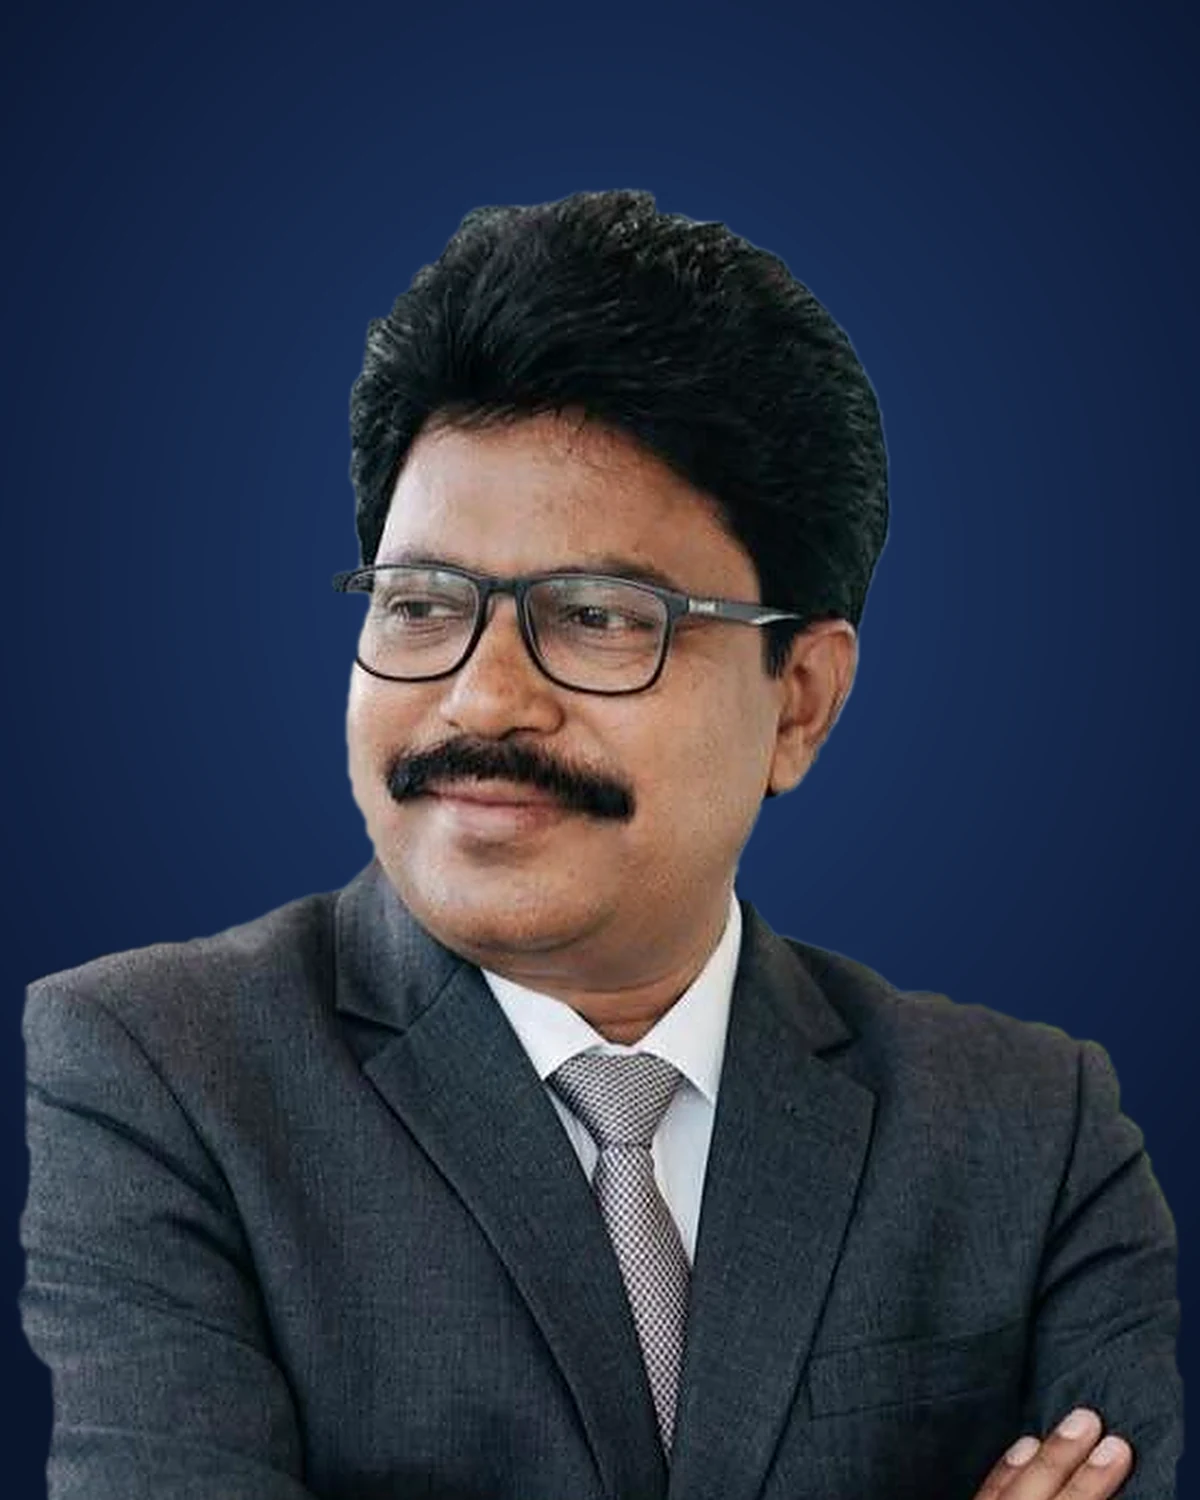
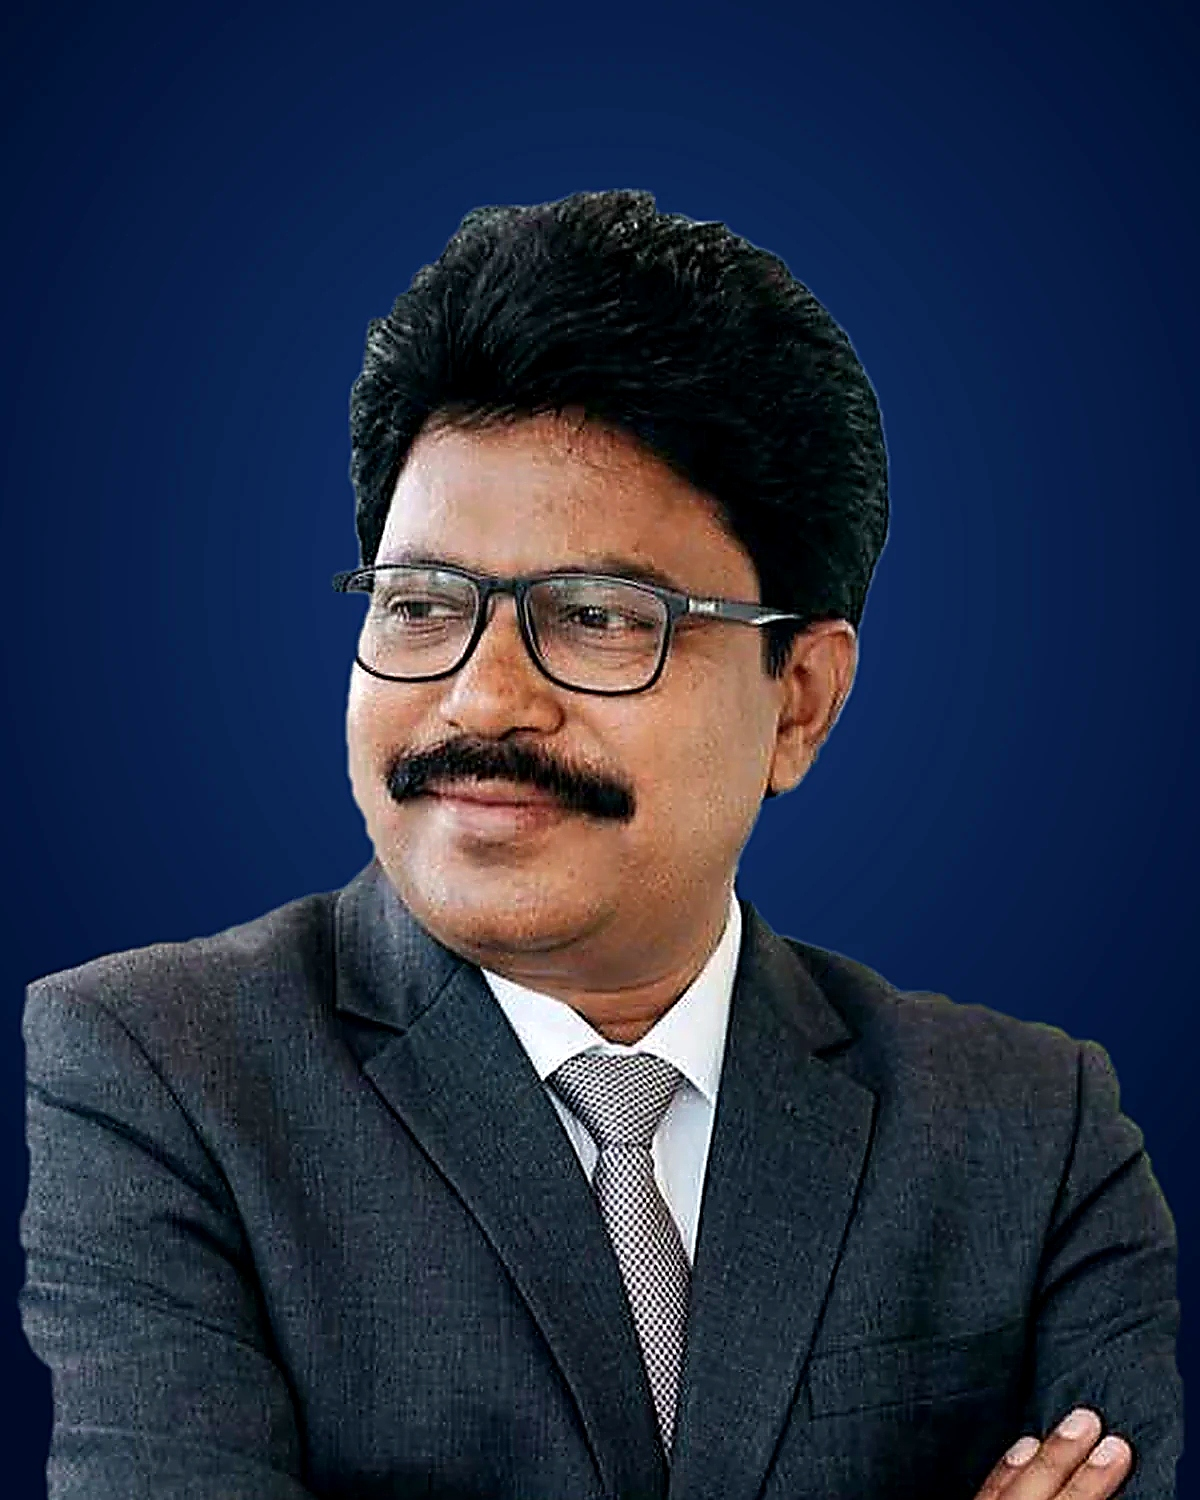
feat: add AppContext store, leadership page, and profile assets

diff --git a/src/pages/HomeHubPage.jsx b/src/pages/HomeHubPage.jsx
@@ -62,7 +62,6 @@ const FACILITY_GRID = [
   { title: 'Infinity Pool', line: 'Heated · 6 AM – 9 PM', image: IMAGES.facilityPool },
   { title: 'Fitness Floor', line: 'Strength & cardio · 5 AM – 11 PM', image: IMAGES.facilityGym },
   { title: 'Restaurant', line: 'Table d’hôte & à la carte', image: IMAGES.facilityRestaurant },
-  { title: 'Gardens', line: 'Lawns, gazebos & decks', image: IMAGES.facilityGarden },
   { title: 'Members Lounge', line: 'Quiet corners · open till midnight', image: IMAGES.galleryLounge },
 ];
 
@@ -119,7 +118,7 @@ export function HomeHubPage() {
   const firstName = firstNameOf(user?.name);
   const greeting = greetingFor(new Date());
   const upcoming = overview.data?.upcoming || [];
-  const latestNotices = (notifications || []).slice(0, 3);
+  const latestNotices = (notifications || []).filter((n) => n.id !== 'n2' && n.title !== 'Weekend gala').slice(0, 3);
 
   // Area cards data (Vijayawada & Hyderabad)
   const AREA_CARDS = [
@@ -469,15 +468,12 @@ export function HomeHubPage() {
       <section id="notices" className="band-white scroll-mt-28" aria-label="Announcements">
         <div className="container-x section">
           <Reveal>
-            <div className="flex flex-wrap items-end justify-between gap-3">
+            <div>
               <SectionHeading
                 eyebrow="Announcements"
                 title="Latest notices"
                 sub="Booking updates, events and member notices appear here first."
               />
-              <button type="button" onClick={viewAllNotices} className="text-sm font-semibold text-gold-600 hover:underline">
-                View all
-              </button>
             </div>
           </Reveal>
           {latestNotices.length === 0 ? (

diff --git a/src/pages/LeadershipPage.jsx b/src/pages/LeadershipPage.jsx
@@ -53,13 +53,15 @@ export function LeadershipPage() {
         {/* Row 1: Featured President Card */}
         {president && (
           <div className="rounded-[16px] border-2 border-transparent hover:border-gold-500 transition-colors duration-150 bg-white overflow-hidden shadow-card grid grid-cols-1 md:grid-cols-[40%_1fr]">
-            <div className="relative aspect-[4/5] md:aspect-auto w-full h-full min-h-[300px] overflow-hidden rounded-[16px]">
+            <div className="relative aspect-[4/5] md:aspect-auto w-full h-full min-h-[320px] md:min-h-[360px] overflow-hidden rounded-[16px]">
               <SmartImage
                 image={{
                   src: president.imageSrc,
                   name: president.role,
                   alt: presidentAlt,
+                  objectPosition: 'center 18%',
                 }}
+                priority
                 fill
                 className="h-full w-full"
               />

diff --git a/src/data/leadership.js b/src/data/leadership.js
@@ -33,7 +33,7 @@ const allImages = {
   ...imagesLeadership,
 };
 
-import presidentImg from '../assets/leadership/president.webp';
+import presidentImg from '../assets/leadership/president.jpg';
 import vicePresidentImg from '../assets/leadership/vice-president.jpg';
 import secretaryImg from '../assets/leadership/secretary.jpg';
 import jointSecretaryImg from '../assets/leadership/joint-secretary.jpg';

diff --git a/src/app/store/AppContext.jsx b/src/app/store/AppContext.jsx
@@ -18,7 +18,6 @@ export function newId(prefix = 'FRCC') {
 
 const seedNotifications = [
   { id: 'n1', title: 'Welcome to FRCC', body: 'Complete your membership to unlock member rates.', date: 'Today' },
-  { id: 'n2', title: 'Weekend gala', body: 'Convention Hall open house this Saturday.', date: 'Yesterday' },
 ];
 
 export const MEMBERSHIP_STORAGE_KEY = 'frcc.membership.v1';
